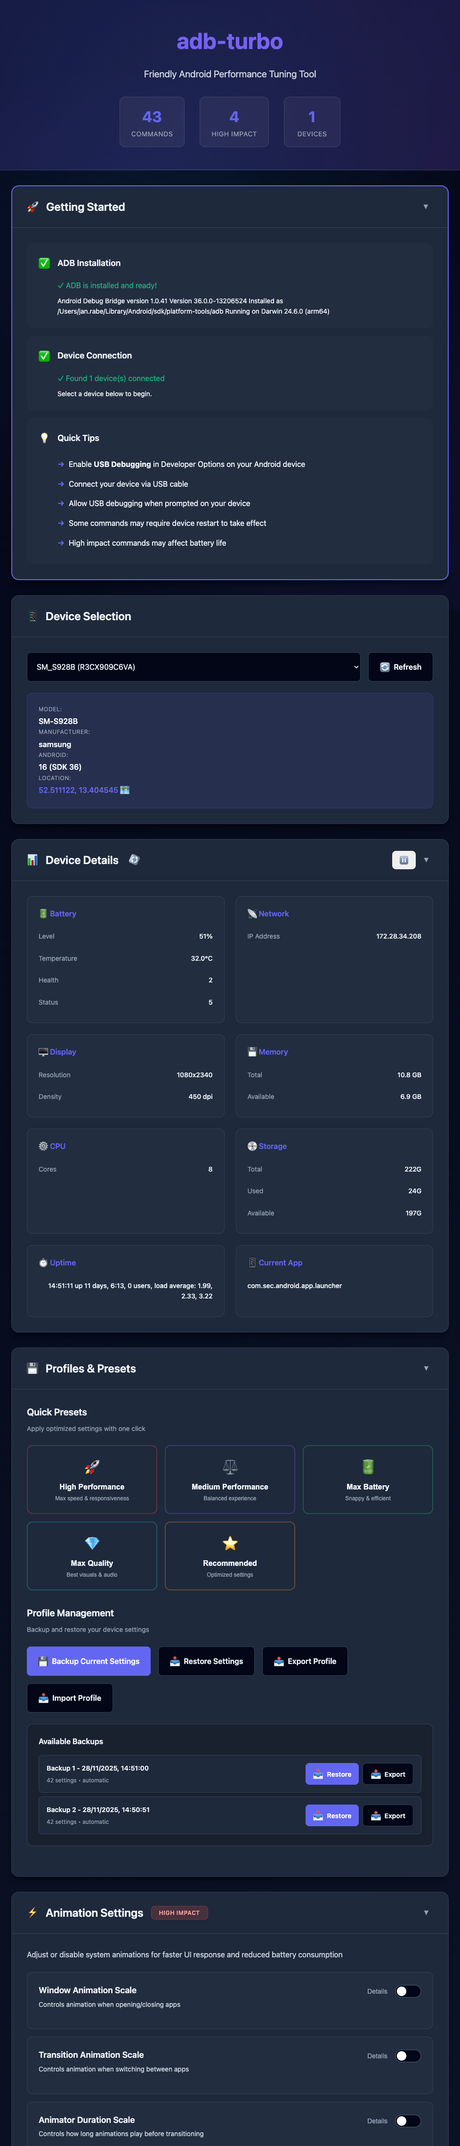
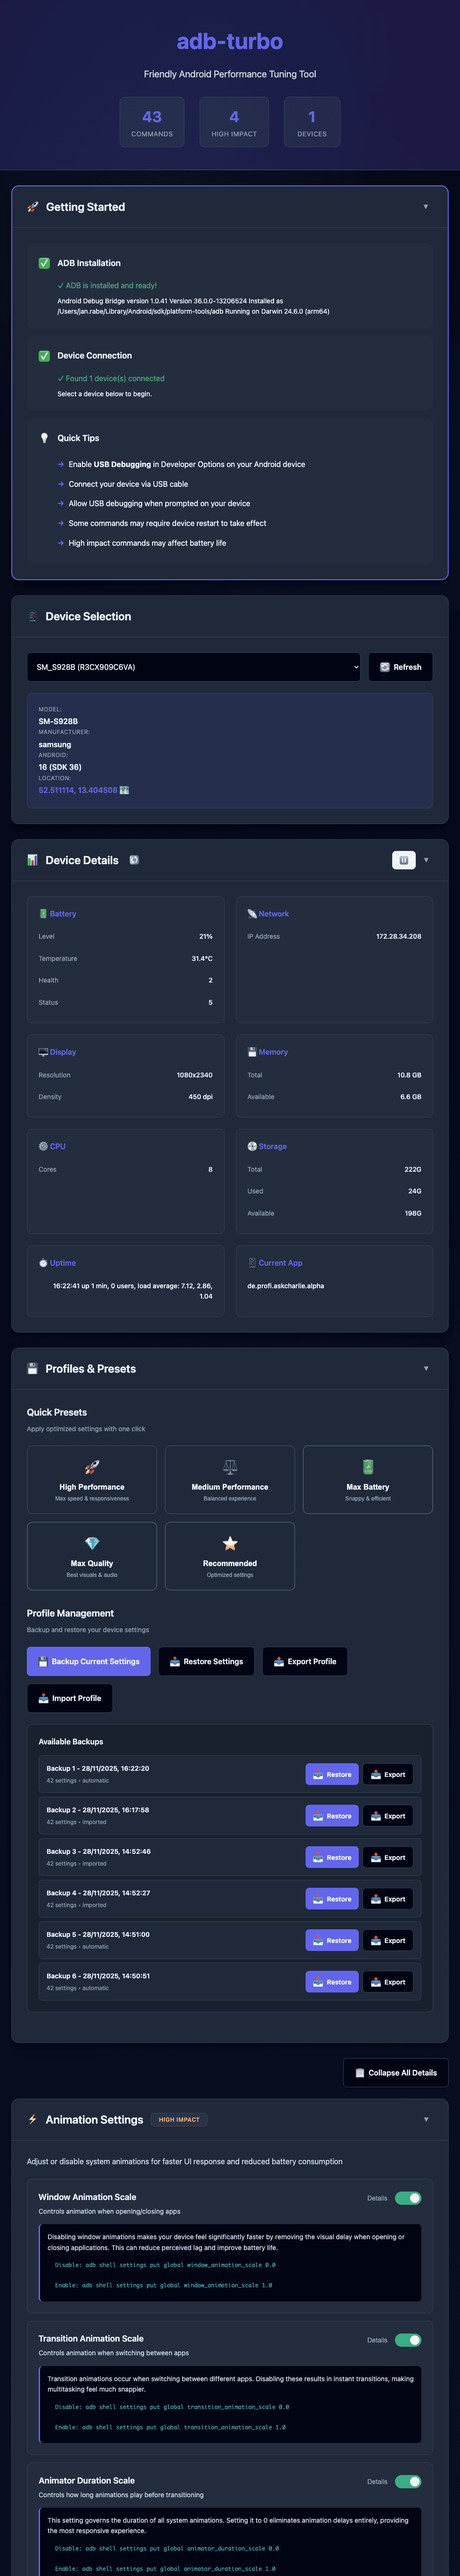
expanding default, screenshots showing it

Changed region(s): [[0.0, 0.0, 1.0, 1.0], [0.3378, 0.6866, 0.3685, 0.7178]]

diff --git a/static/js/app.js b/static/js/app.js
@@ -879,7 +879,7 @@ function createCommandItem(command, categoryId) {
     header.appendChild(actions);
     
     const explanation = document.createElement('div');
-    explanation.className = 'command-explanation collapsed';
+    explanation.className = 'command-explanation';
     explanation.id = `${item.id}-explanation`;
     explanation.innerHTML = `
         <p>${command.explanation}</p>
@@ -900,6 +900,34 @@ function toggleCommandDetails(itemId) {
     const explanation = document.getElementById(`${itemId}-explanation`);
     if (explanation) {
         explanation.classList.toggle('collapsed');
+    }
+}
+
+/**
+ * Toggle all command details (expand/collapse all)
+ */
+function toggleAllDetails() {
+    const allExplanations = document.querySelectorAll('.command-explanation');
+    const btn = document.getElementById('expand-collapse-text');
+    
+    if (allExplanations.length === 0) {
+        logToConsole('No commands available to expand/collapse', 'warning');
+        return;
+    }
+    
+    // Check if any are currently expanded
+    const anyExpanded = Array.from(allExplanations).some(exp => !exp.classList.contains('collapsed'));
+    
+    if (anyExpanded) {
+        // Collapse all
+        allExplanations.forEach(exp => exp.classList.add('collapsed'));
+        btn.textContent = 'Expand All Details';
+        logToConsole('Collapsed all command details', 'info');
+    } else {
+        // Expand all
+        allExplanations.forEach(exp => exp.classList.remove('collapsed'));
+        btn.textContent = 'Collapse All Details';
+        logToConsole('Expanded all command details', 'info');
     }
 }
 

diff --git a/static/index.html b/static/index.html
@@ -231,6 +231,12 @@
             </section>
 
             <!-- Command Categories -->
+            <section class="categories-header">
+                <button class="btn btn--secondary" id="expand-collapse-all-btn" onclick="toggleAllDetails()">
+                    <span class="btn__icon">📋</span>
+                    <span id="expand-collapse-text">Collapse All Details</span>
+                </button>
+            </section>
             <section id="categories-container">
                 <!-- Categories will be dynamically inserted here -->
             </section>

diff --git a/static/css/style.css b/static/css/style.css
@@ -529,6 +529,22 @@ body::before {
 /* ============================================
    Command Categories
    ============================================ */
+.categories-header {
+    display: flex;
+    justify-content: flex-end;
+    margin-bottom: var(--spacing-lg);
+    animation: fadeInUp 0.6s ease-out both;
+}
+
+.categories-header .btn {
+    box-shadow: var(--shadow-md);
+}
+
+.categories-header .btn:hover {
+    transform: translateY(-2px);
+    box-shadow: var(--shadow-lg);
+}
+
 .category {
     margin-bottom: var(--spacing-xl);
 }
